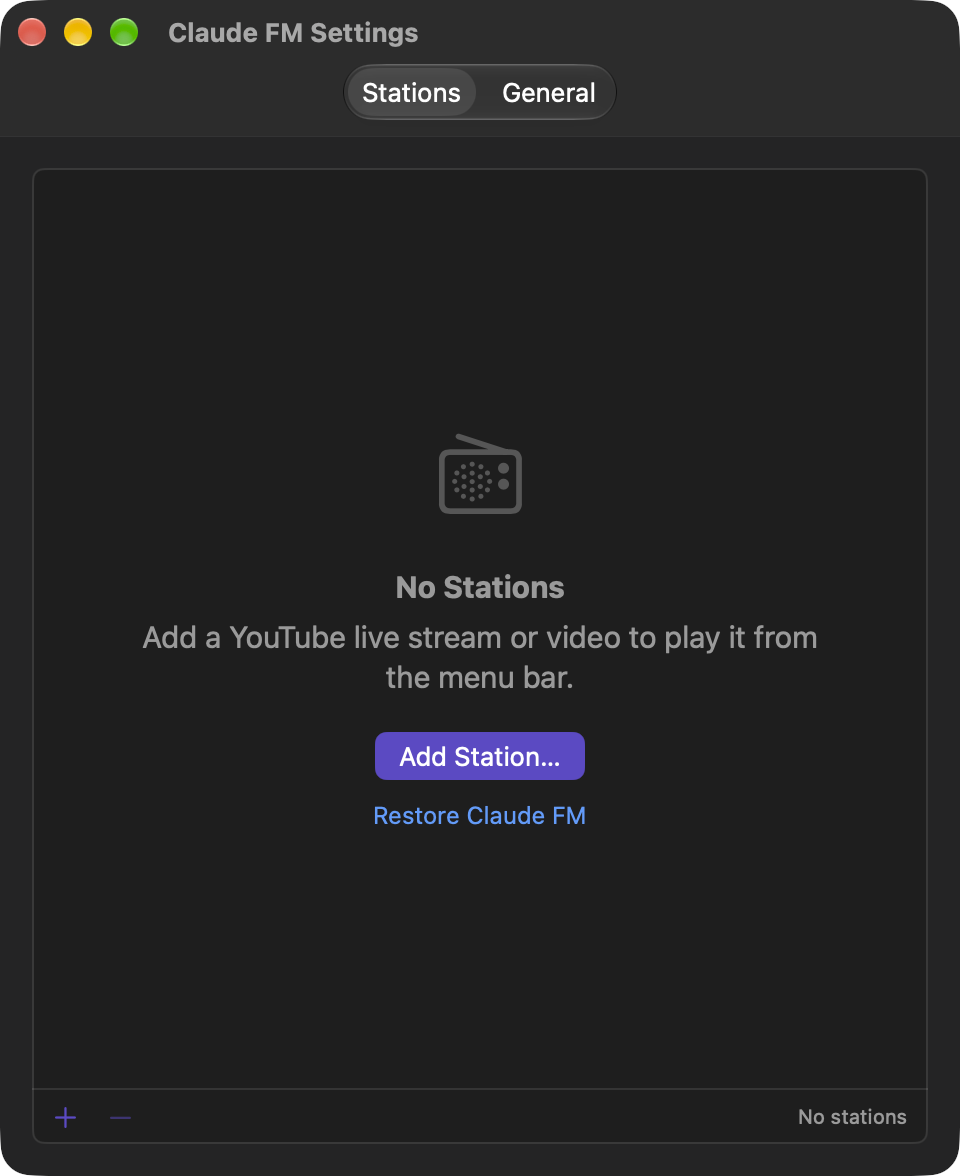
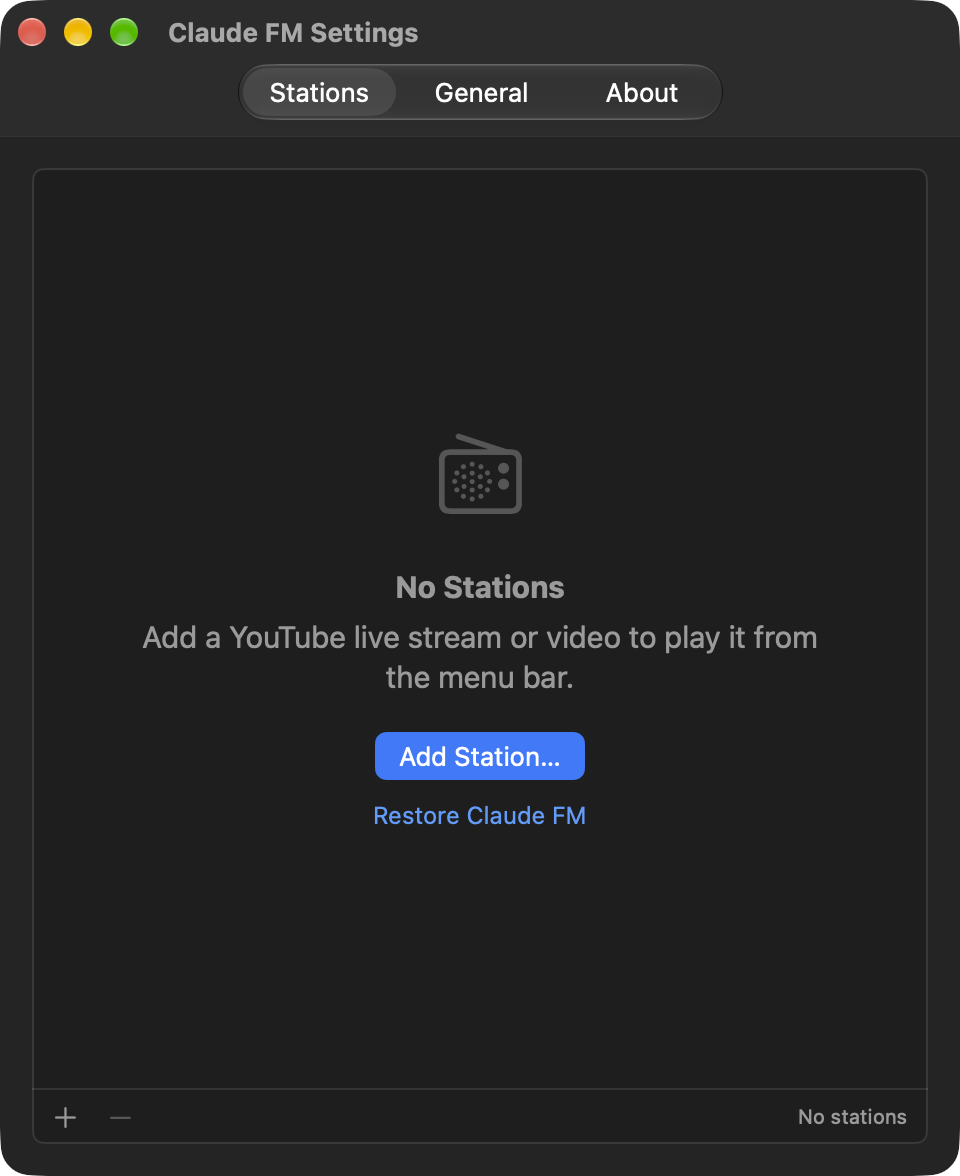
Follow the system accent color in the settings window
The window and the Add Station sheet were tinted with the designs'
violet. Controls now use the accent color the user set for the Mac.
The violet stays on the Claude FM station's thumbnail.

Claude-Session: https://claude.ai/code/session_01Ev9xkhDvf3t77rjS2vGz66

Changed region(s): [[0.25, 0.0306, 0.7188, 0.1224], [0.375, 0.6122, 0.625, 0.6735]]

diff --git a/Sources/ClaudeFM/ThumbnailCache.swift b/Sources/ClaudeFM/ThumbnailCache.swift
@@ -73,7 +73,7 @@ struct StationThumbnail: View {
 }
 
 extension Color {
-    /// The app's accent. It is the violet the designs use, which sits inside the app
-    /// icon's gradient. It is not a system color.
+    /// The violet behind the radio on the Claude FM station's thumbnail. It sits inside the
+    /// app icon's gradient. Controls don't use it: they follow the system accent color.
     static let claudeViolet = Color(red: 0x5B / 255, green: 0x48 / 255, blue: 0xC9 / 255)
 }

diff --git a/Sources/ClaudeFM/StationsTab.swift b/Sources/ClaudeFM/StationsTab.swift
@@ -139,7 +139,7 @@ struct StationsTab: View {
                     .controlSize(.small)
             } else if isCurrent && model.isActive {
                 Image(systemName: "speaker.wave.2.fill")
-                    .foregroundStyle(Color.claudeViolet)
+                    .foregroundStyle(.tint)
                     .accessibilityLabel("Playing")
             } else {
                 Button {

diff --git a/Sources/ClaudeFM/SettingsWindow.swift b/Sources/ClaudeFM/SettingsWindow.swift
@@ -110,10 +110,8 @@ struct SettingsView: View {
                 .fixedSize()
             }
         }
-        .tint(.claudeViolet)
         .sheet(item: $navigation.sheet) { request in
             AddStationSheet(model: model, request: request)
-                .tint(.claudeViolet)
         }
     }
 }
